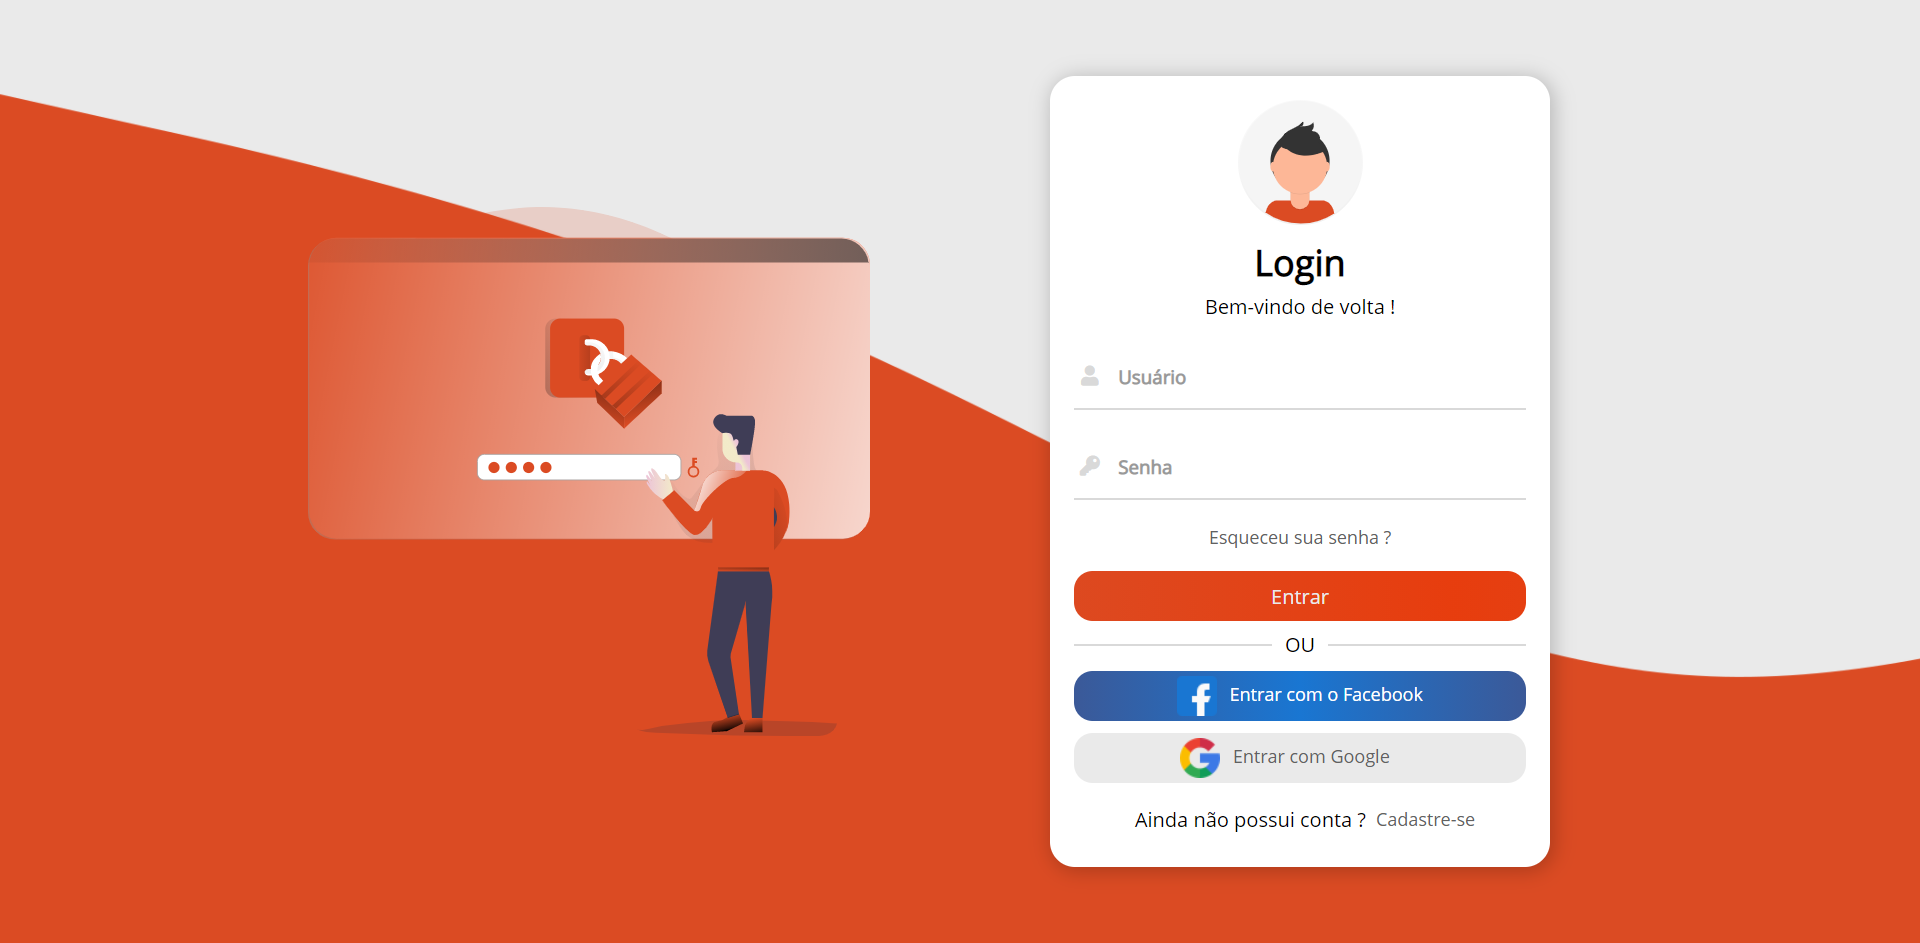
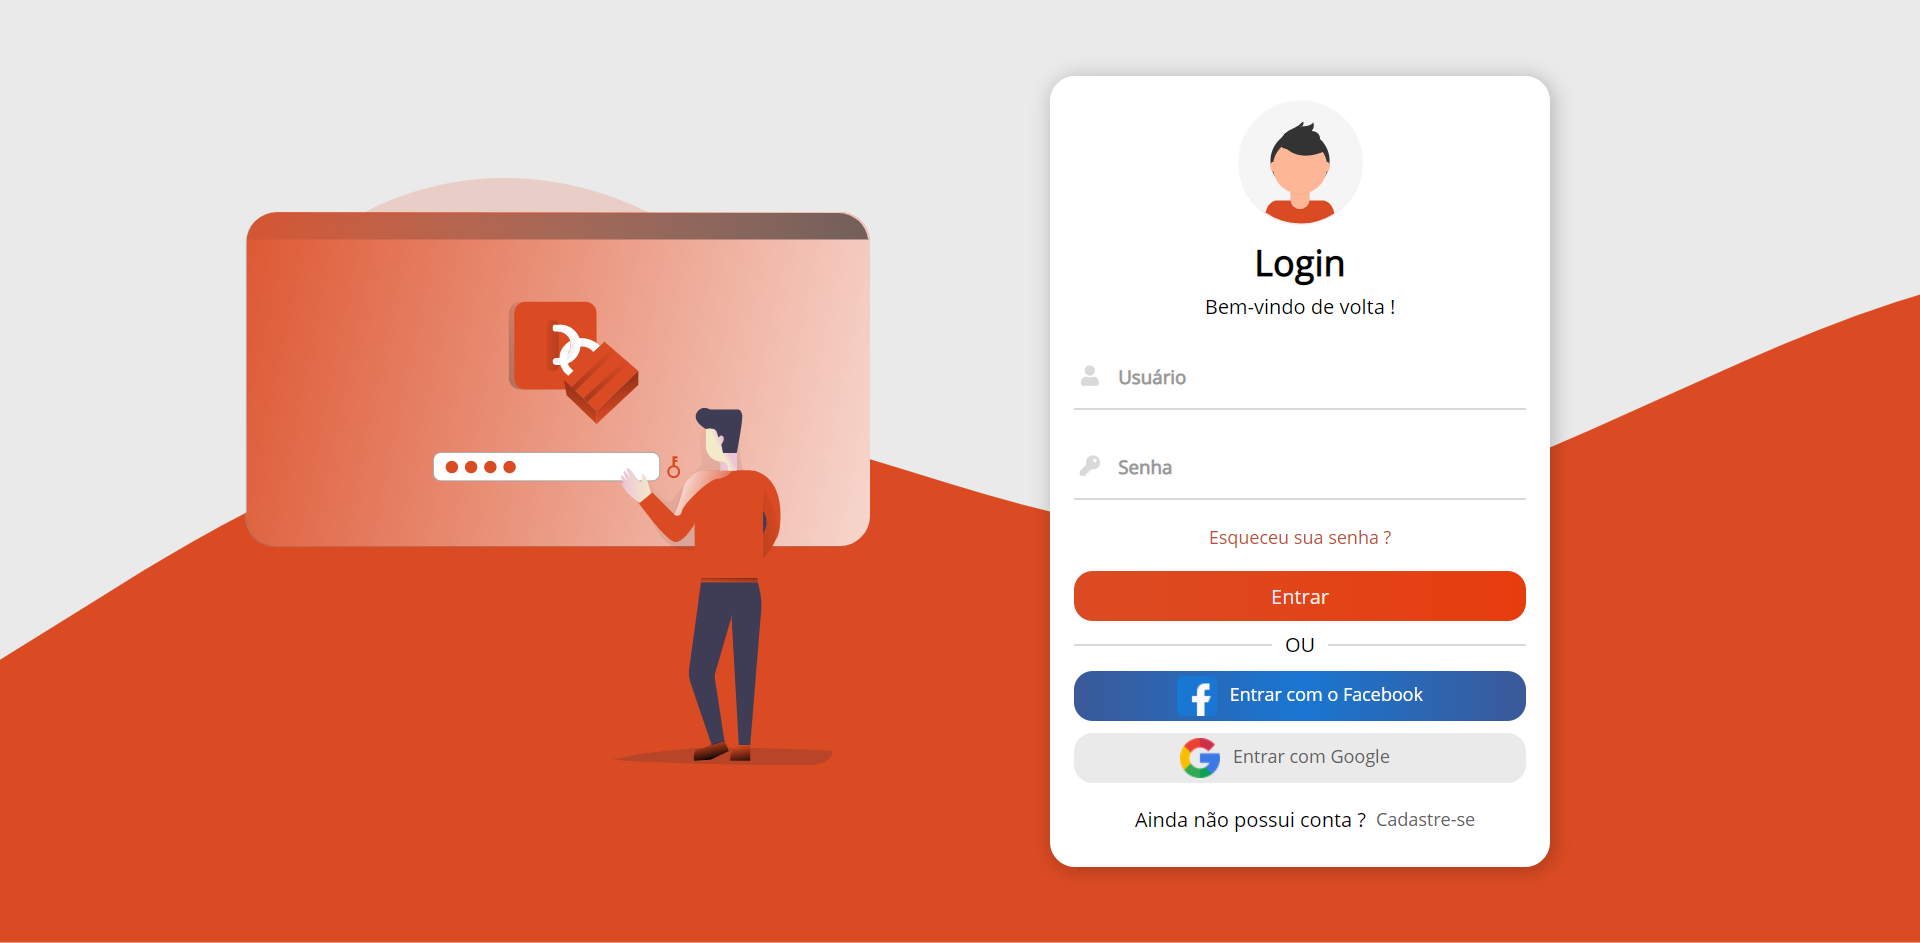
Layout and responsive improvements

diff --git a/css/style.css b/css/style.css
@@ -35,7 +35,7 @@ body {
 }
 
 .img img {
-  width: 450px;
+  width: 500px;
 }
 
 .login-container {
@@ -126,12 +126,12 @@ form h2 {
   transition: 0.3s;
 }
 
-.input-div > div {
+.input-div>div {
   position: relative;
   height: 40px;
 }
 
-.input-div > div h5 {
+.input-div>div h5 {
   position: absolute;
   left: 10px;
   top: 50%;
@@ -290,7 +290,7 @@ a:hover {
   }
 
   .img img {
-    width: 350px;
+    width: 400px;
   }
 }
 
@@ -316,5 +316,14 @@ a:hover {
   form {
     width: 300px;
     margin: 1rem 0;
+  }
+
+  .terms {
+    margin: 0;
+  }
+
+  .terms input {
+    margin-top: 5px;
+    align-self: start;
   }
 }

diff --git a/forgotPassword.html b/forgotPassword.html
@@ -16,7 +16,7 @@
 </head>
 
 <body>
-    <img class="wave" src="img/wave3.png">
+    <img class="wave" src="img/wave.svg">
     <div class="container">
         <div class="img">
             <img src="img/personalization.svg">

diff --git a/login.html b/login.html
@@ -16,7 +16,7 @@
 </head>
 
 <body>
-    <img class="wave" src="img/wave5.png">
+    <img class="wave" src="img/wave.svg">
     <div class="container">
         <div class="img">
             <img src="img/authentication.svg">

diff --git a/register.html b/register.html
@@ -16,7 +16,7 @@
 </head>
 
 <body>
-    <img class="wave" src="img/wave3.png">
+    <img class="wave" src="img/wave.svg">
     <div class="container">
         <div class="img">
             <img src="img/login-mobile.svg">
